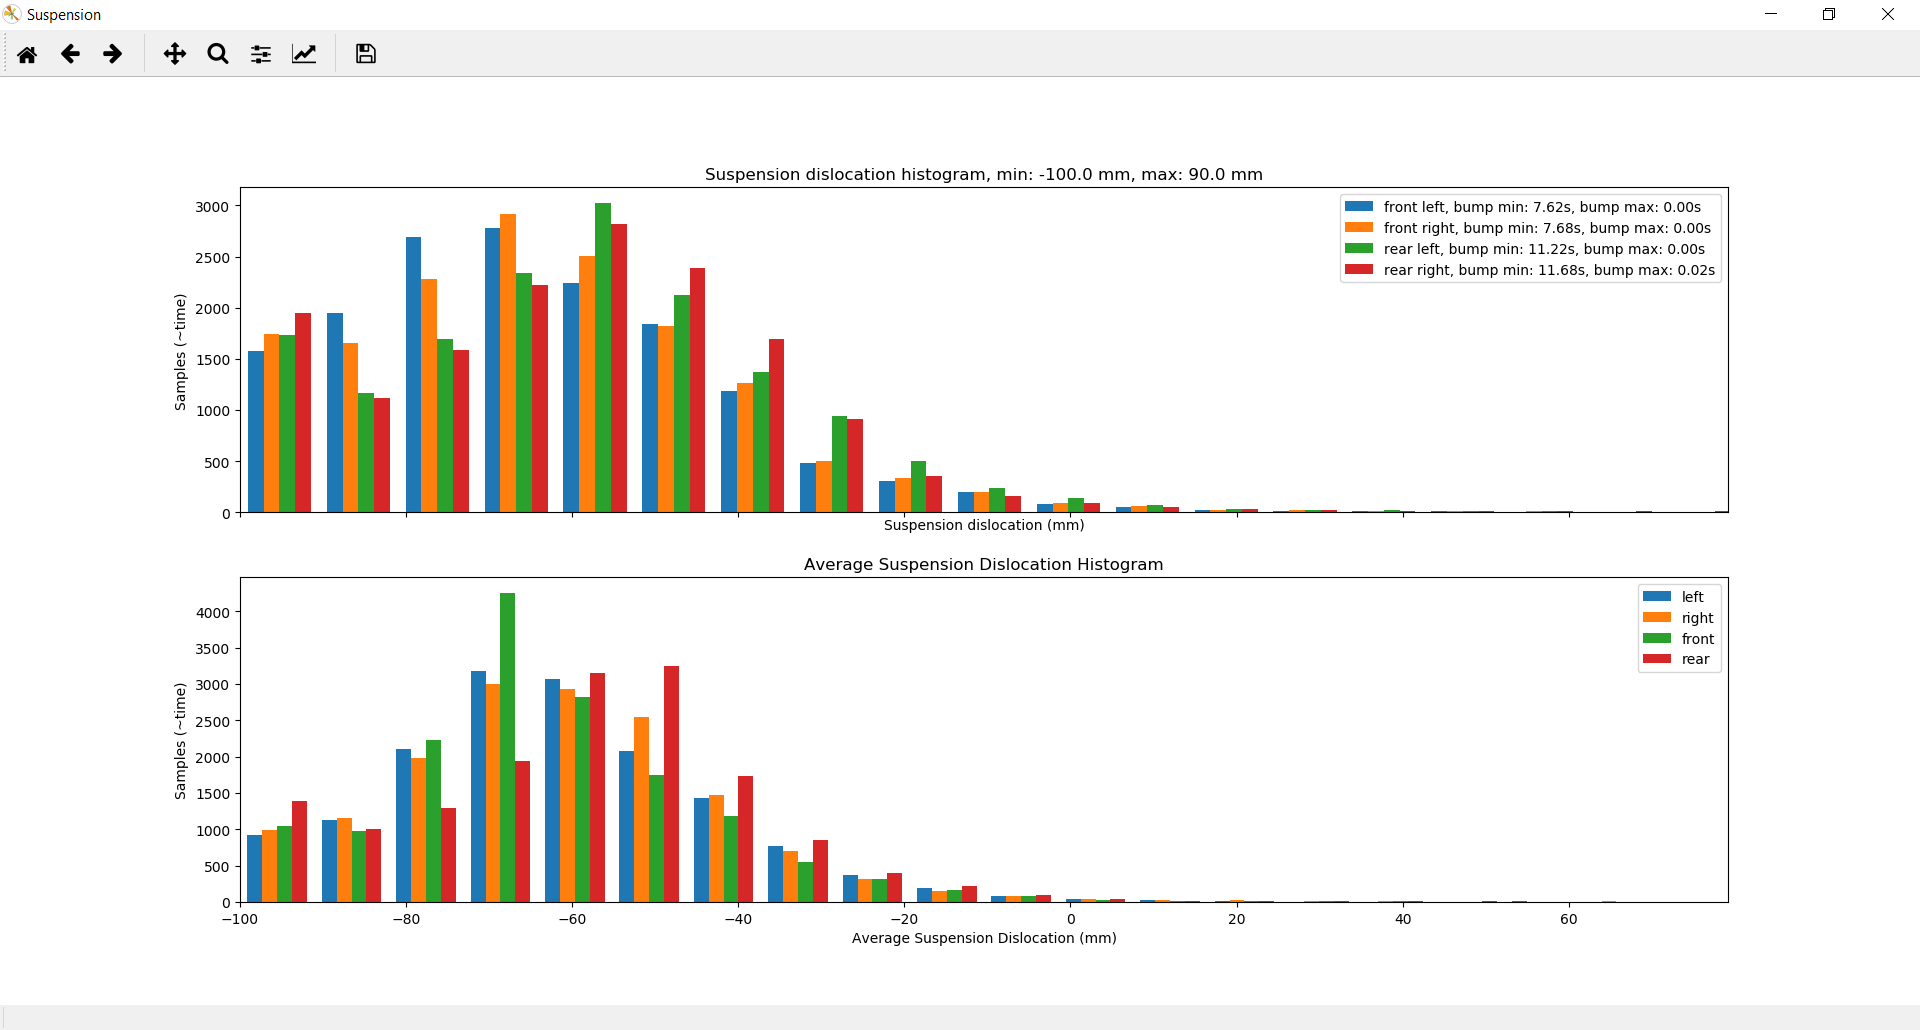
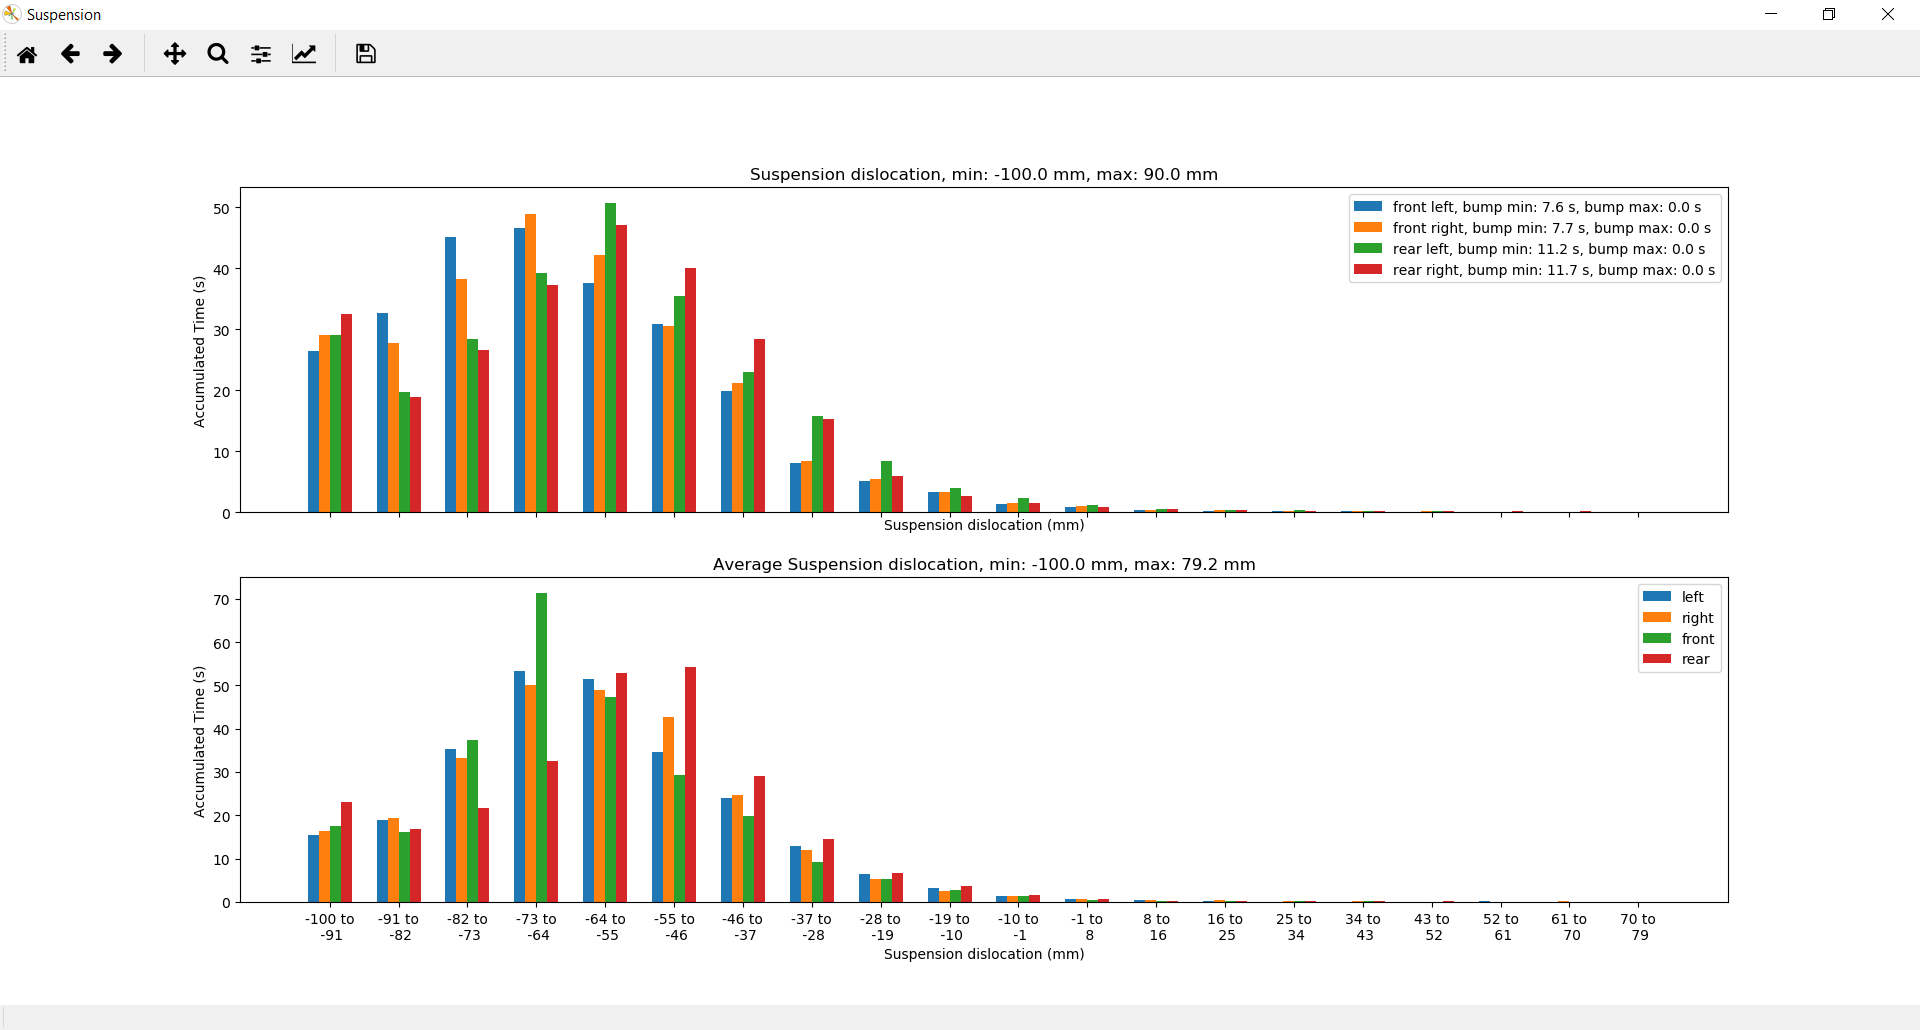
better histograms for drift and rpm

diff --git a/plots.py b/plots.py
@@ -24,7 +24,9 @@ def plot_main(session_data):
         plot_height_over_dist(ax[0], session_data)
         plot_gear_over_2d_pos(ax[1], session_data)
 
-        plot_rpm_histogram_per_gear(session_data)
+        fig, ax = plt.subplots(1, 1)
+        fig.canvas.set_window_title('RPM Histogram per Gear')
+        gear_rpm_bars(ax, session_data)
 
         fig, ax = plt.subplots(1, 1)
         fig.canvas.set_window_title('Speed over RPM')
@@ -38,8 +40,8 @@ def plot_main(session_data):
         fig, ax = plt.subplots(1, 3)
         fig.canvas.set_window_title('Drift at 2D positions (drift angle as color)')
         forward_over_2d_pos(ax[0], session_data)
-        drift_angle_histogram(ax[1], session_data)
-        drift_angle_change_histogram(ax[2], session_data)
+        drift_angle_bars(ax[1], session_data)
+        drift_angle_change_bars(ax[2], session_data)
         #drift_over_speed(ax[1][1], session_data)
 
         fig, ax = plt.subplots(2, 1, sharex=True)
@@ -170,8 +172,8 @@ def histogram_plot(ax, samples, title, x_label, y_label, labels=None, min=None, 
 def bar_plot(ax, data, weights, num_bins=20,
              title=None, x_label=None, y_label=None, series_labels=None, tick_labels=None):
 
-    data_min = data.min()
-    data_max = data.max()
+    data_min = min([d.min() for d in data])
+    data_max = max([d.max() for d in data])
 
     x = np.arange(num_bins)
 
@@ -179,7 +181,7 @@ def bar_plot(ax, data, weights, num_bins=20,
     width = default_width / (float(len(series_labels)) + 1)
     for i in range(len(series_labels)):
         data_bin_sum, bin_edges, _ = \
-            binned_statistic(data[i], weights, statistic='sum', bins=num_bins, range=(data_min, data_max))
+            binned_statistic(data[i], weights[i], statistic='sum', bins=num_bins, range=(data_min, data_max))
         tick_labels = ['{:.0f} to\n {:.0f}'.format(bin_edges[0 + i], bin_edges[1 + i])
                        for i in range(bin_edges.shape[0] - 1)]
 
@@ -232,28 +234,25 @@ def plot_gear_over_2d_pos(ax, session_data):
                      scale=10, alpha=0.5, title='Gear at 2D positions', labels=labels)
 
 
-def plot_rpm_histogram_per_gear(session_data):
+def gear_rpm_bars(ax, session_data):
+
+    time_differences = data_processing.differences(session_data[networking.fields['lap_time']])
     rpm = session_data[networking.fields['rpm']]
     data_gear = session_data[networking.fields['gear']]
     range_gears = list(set(data_gear))
     range_gears.sort()
-    range_gears = [g for g in range_gears if g > 0.0]
-    rpm_min = min(rpm)
-    rpm_max = max(rpm)
 
-    num_total_samples = session_data.shape[1]
-    fig, a = plt.subplots(1, len(range_gears), sharex=True, sharey=True)
-    fig.canvas.set_window_title('RPM Histogram per Gear')
-    a = a.ravel()
-    for i, gear in enumerate(range_gears):
-        current_gear = session_data[networking.fields['gear']] == gear
-        rpm_per_gear = session_data[networking.fields['rpm'], current_gear]
-        num_samples_gear = len(rpm_per_gear)
-        samples_gear_ratio = num_samples_gear / num_total_samples
+    total_time = time_differences.sum()
+    gear_ids = [data_gear == gear for gear in range_gears]
+    gear_times = [time_differences[g] for g in gear_ids]
+    gear_rpms = [rpm[g] for g in gear_ids]
+    gear_time_sums = [gt.sum() for gt in gear_times]
+    gear_ratio = [gts / total_time for gts in gear_time_sums]
+    series_labels = ['Gear {0}: {1:.1f}%'.format(
+        int(g), gear_ratio[gi] * 100.0) for gi, g in enumerate(range_gears)]
 
-        histogram_plot(ax=a[i], samples=rpm_per_gear,
-                       title='G{0}: {1:.1f}%'.format(int(gear), samples_gear_ratio * 100.0),
-                       x_label='RPM', y_label='Samples (~time)', labels=None, min=rpm_min, max=rpm_max, num_bins=20)
+    bar_plot(ax, data=gear_rpms, weights=gear_times, num_bins=20,
+             title='Gear RPM', x_label='RPM', y_label='Accumulated Time (s)', series_labels=series_labels)
 
 
 def inputs_over_time(ax, session_data):
@@ -337,6 +336,7 @@ def suspension_bars(ax, session_data):
     susp_rl = session_data[networking.fields['susp_rl']]
     susp_rr = session_data[networking.fields['susp_rr']]
     susp_data = np.array([susp_fl, susp_fr, susp_rl, susp_rr])
+    time_data = np.repeat(np.expand_dims(time_differences, axis=0), 4, axis=0)
     susp_min = susp_data.min()
     susp_max = susp_data.max()
     susp_min_ids = (susp_min == susp_data)
@@ -346,7 +346,7 @@ def suspension_bars(ax, session_data):
         time_differences[susp_min_ids[li]].sum(), time_differences[susp_max_ids[li]].sum())
               for li, l in enumerate(series_labels)]
 
-    bar_plot(ax, data=susp_data, weights=time_differences, num_bins=20,
+    bar_plot(ax, data=susp_data, weights=time_data, num_bins=20,
              title='Suspension dislocation, min: {:.1f} mm, max: {:.1f} mm'.format(susp_min, susp_max),
              x_label='Suspension dislocation (mm)', y_label='Accumulated Time (s)', series_labels=series_labels)
 
@@ -363,11 +363,12 @@ def suspension_l_r_f_r_bars(ax, session_data):
     susp_front = (susp_fl + susp_fr) * 0.5
     susp_rear = (susp_rl + susp_rr) * 0.5
     susp_data = np.array([susp_left, susp_right, susp_front, susp_rear])
+    time_data = np.repeat(np.expand_dims(time_differences, axis=0), 4, axis=0)
     susp_min = susp_data.min()
     susp_max = susp_data.max()
     series_labels = ['left', 'right', 'front', 'rear']
 
-    bar_plot(ax, data=susp_data, weights=time_differences, num_bins=20,
+    bar_plot(ax, data=susp_data, weights=time_data, num_bins=20,
              title='Average Suspension dislocation, min: {:.1f} mm, max: {:.1f} mm'.format(susp_min, susp_max),
              x_label='Suspension dislocation (mm)', y_label='Accumulated Time (s)', series_labels=series_labels)
 
@@ -570,20 +571,32 @@ def drift_over_speed(ax, session_data):
                  x_label='Speed (m/s)', y_label='Drift angle (deg/s)')
 
 
-def drift_angle_histogram(ax, session_data):
+def drift_angle_bars(ax, session_data):
+
+    time_differences = data_processing.differences(session_data[networking.fields['lap_time']])
     speed_ms = session_data[networking.fields['speed_ms']]
     drift_angle_deg = data_processing.get_drift_angle(session_data)
 
     # filter very slow parts
     fast_enough = speed_ms > 1.0  # m/s
     drift_angle_deg = drift_angle_deg[fast_enough]
+    time_differences = time_differences[fast_enough]
 
-    histogram_plot(ax=ax, samples=drift_angle_deg,
-                   title='Drift Angle Histogram',
-                   x_label='Drift Angle (deg)', y_label='Samples (~time)')
+    # filter out rare extreme values
+    outlier_threshold = np.nanpercentile(drift_angle_deg, 99)
+    usual_values = drift_angle_deg < outlier_threshold
+    drift_angle_deg = drift_angle_deg[usual_values]
+    time_differences = time_differences[usual_values]
+
+    series_labels = ['']
+
+    bar_plot(ax, data=[drift_angle_deg], weights=[time_differences], num_bins=10, title='Drift Angle Histogram',
+             x_label='Drift Angle (deg)', y_label='Accumulated Time (s)', series_labels=series_labels)
 
 
-def drift_angle_change_histogram(ax, session_data):
+def drift_angle_change_bars(ax, session_data):
+
+    time_differences = data_processing.differences(session_data[networking.fields['lap_time']])
     speed_ms = session_data[networking.fields['speed_ms']]
     drift_angle_deg = data_processing.get_drift_angle(session_data)
     drift_angle_deg_der = data_processing.derive_no_nan(
@@ -599,9 +612,13 @@ def drift_angle_change_histogram(ax, session_data):
     usual_values = drift_angle_deg_der < outlier_threshold
     drift_angle_deg_der = drift_angle_deg_der[usual_values]
 
-    histogram_plot(ax=ax, samples=drift_angle_deg_der,
-                   title='Drift Angle Change Histogram',
-                   x_label='Drift Angle Change (deg/s)', y_label='Samples (~time)')
+    time_differences = time_differences[fast_enough]
+    time_differences = time_differences[usual_values]
+    series_labels = ['']
+
+    bar_plot(ax, data=[drift_angle_deg_der], weights=[time_differences], num_bins=10,
+             title='Drift Angle Change Histogram',
+             x_label='Drift Angle Change (deg/s)', y_label='Accumulated Time (s)', series_labels=series_labels)
 
 
 def rotation_over_time(ax, session_data):

diff --git a/dr2logger.py b/dr2logger.py
@@ -111,7 +111,7 @@ Make sure, UDP data is enabled in the hardware_settings_config.xml in .../docume
 
             if keyboard.is_pressed('esc'):
                 recording = False
-                utils.cls()
+                # utils.cls()
                 print('\nRecording of race stopped. Collected {} data points.\n'.format(session_collection.shape[1]))
 
         print('Press: \n'
